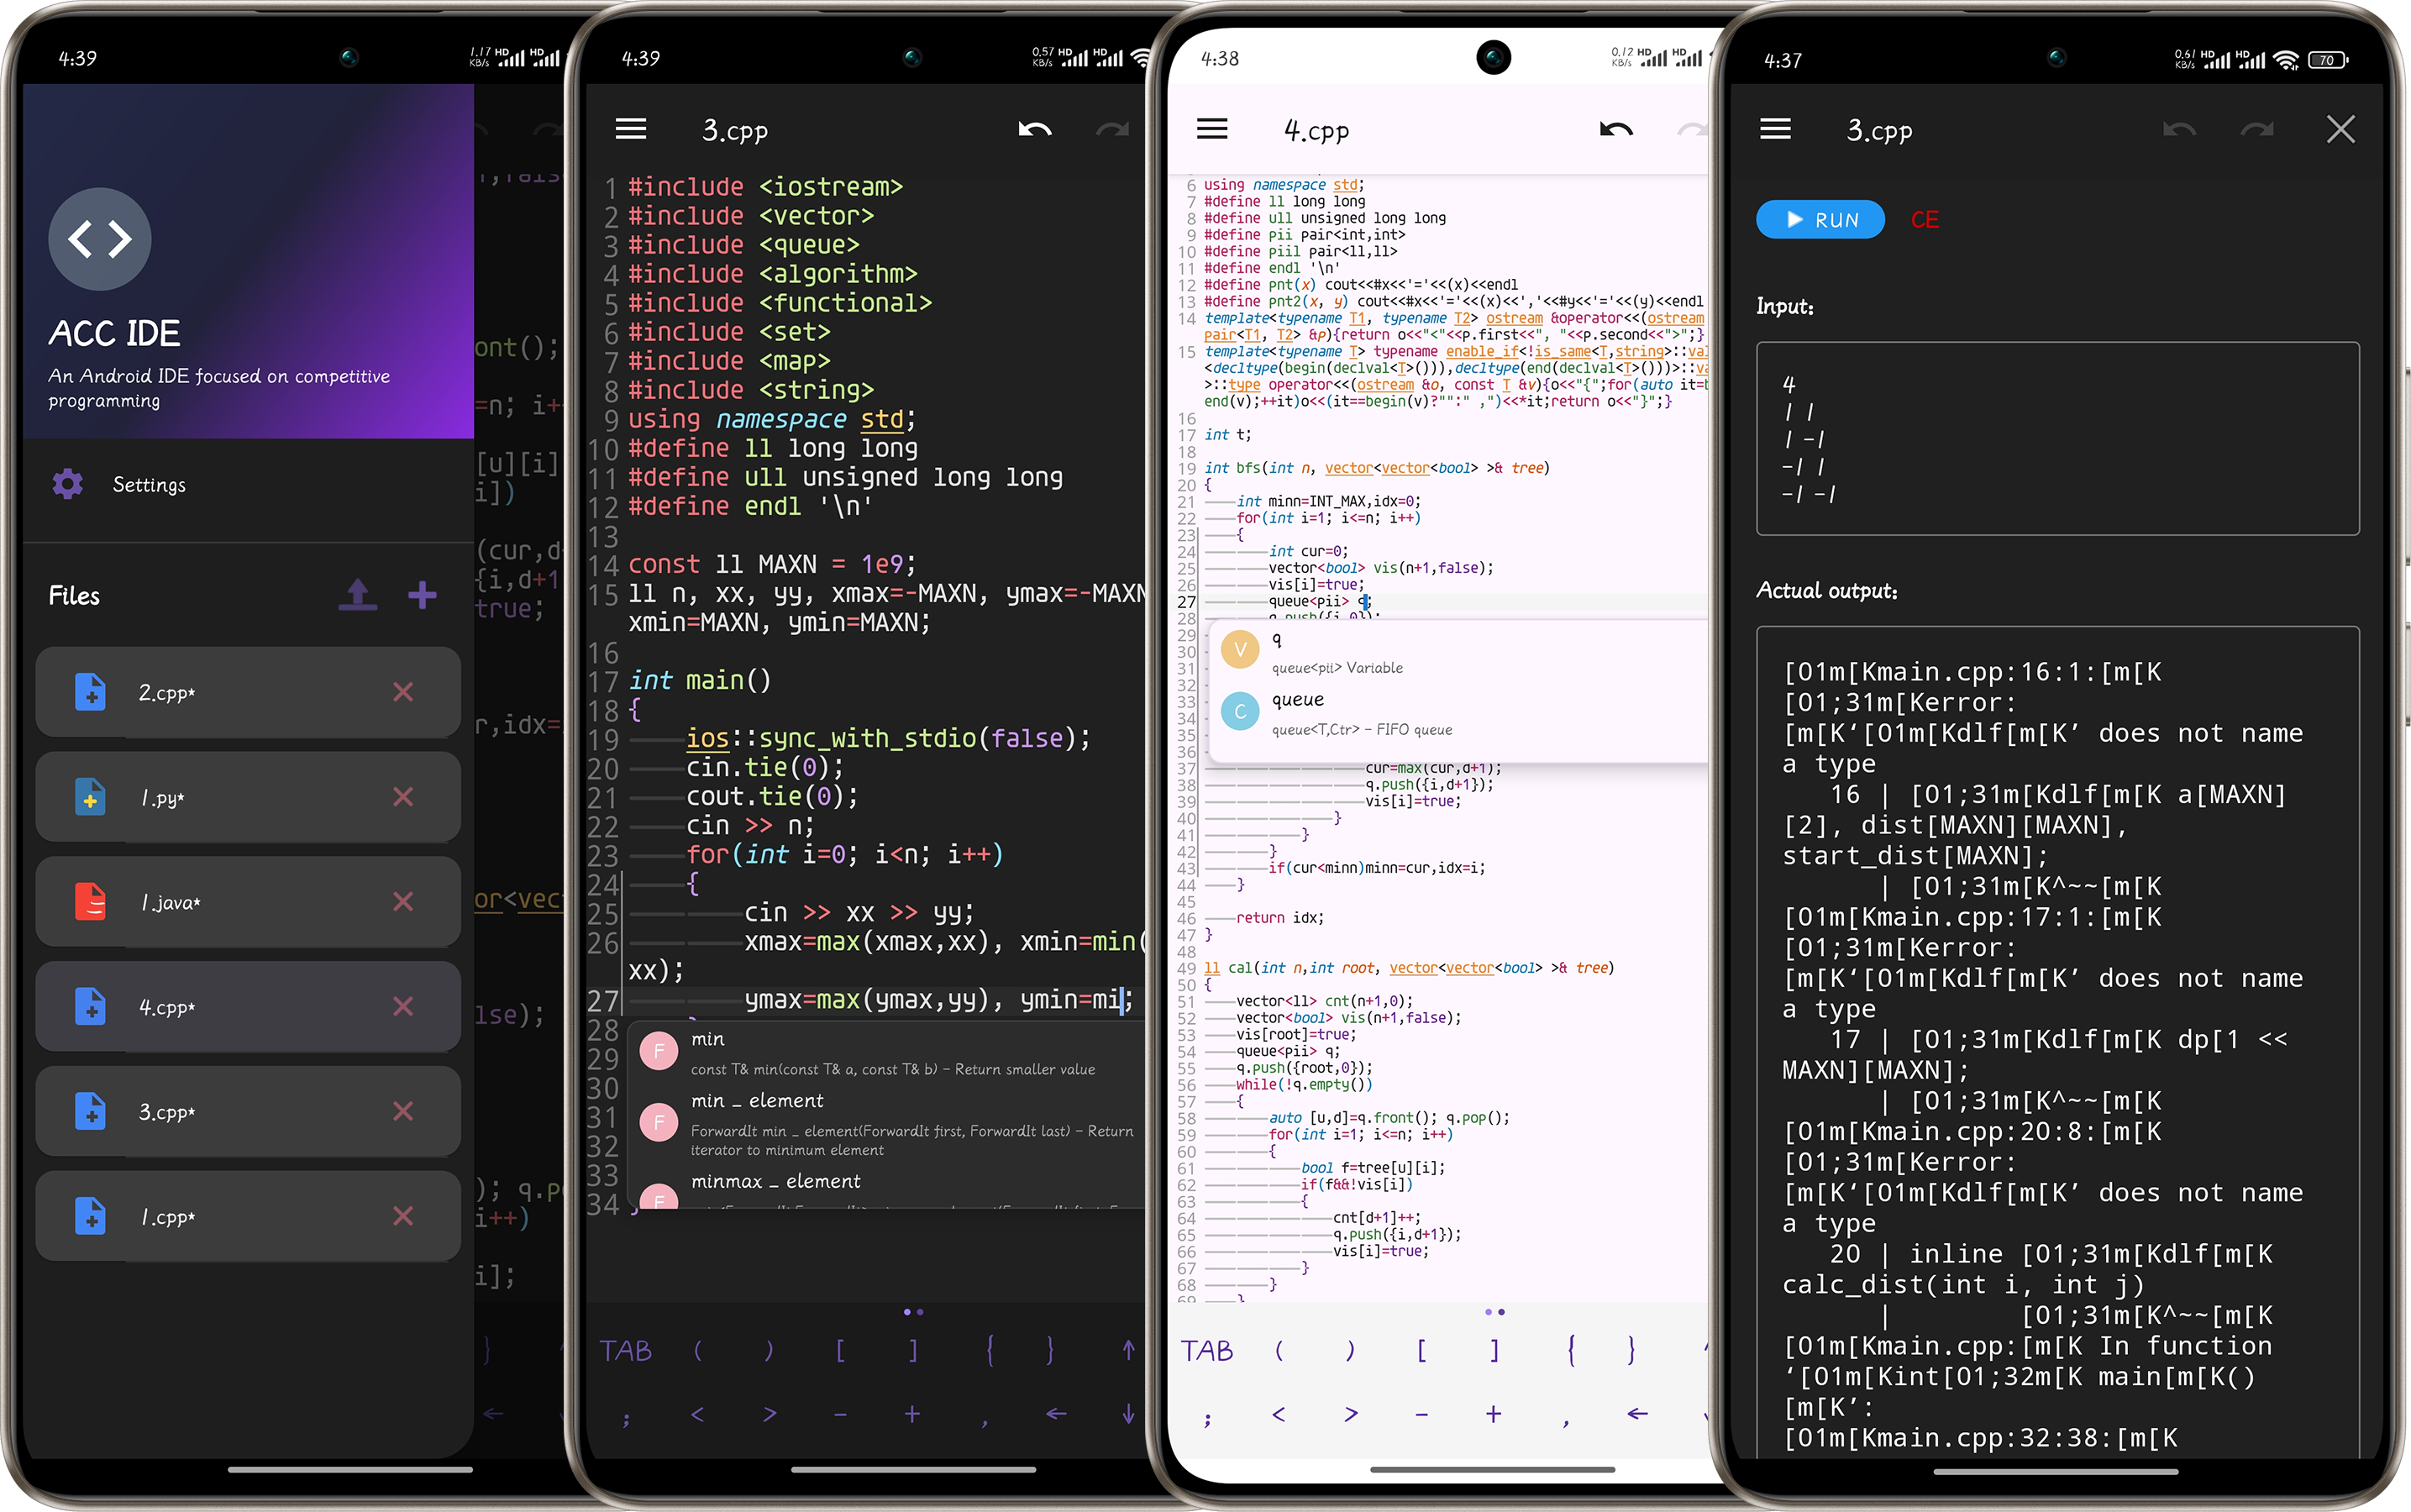
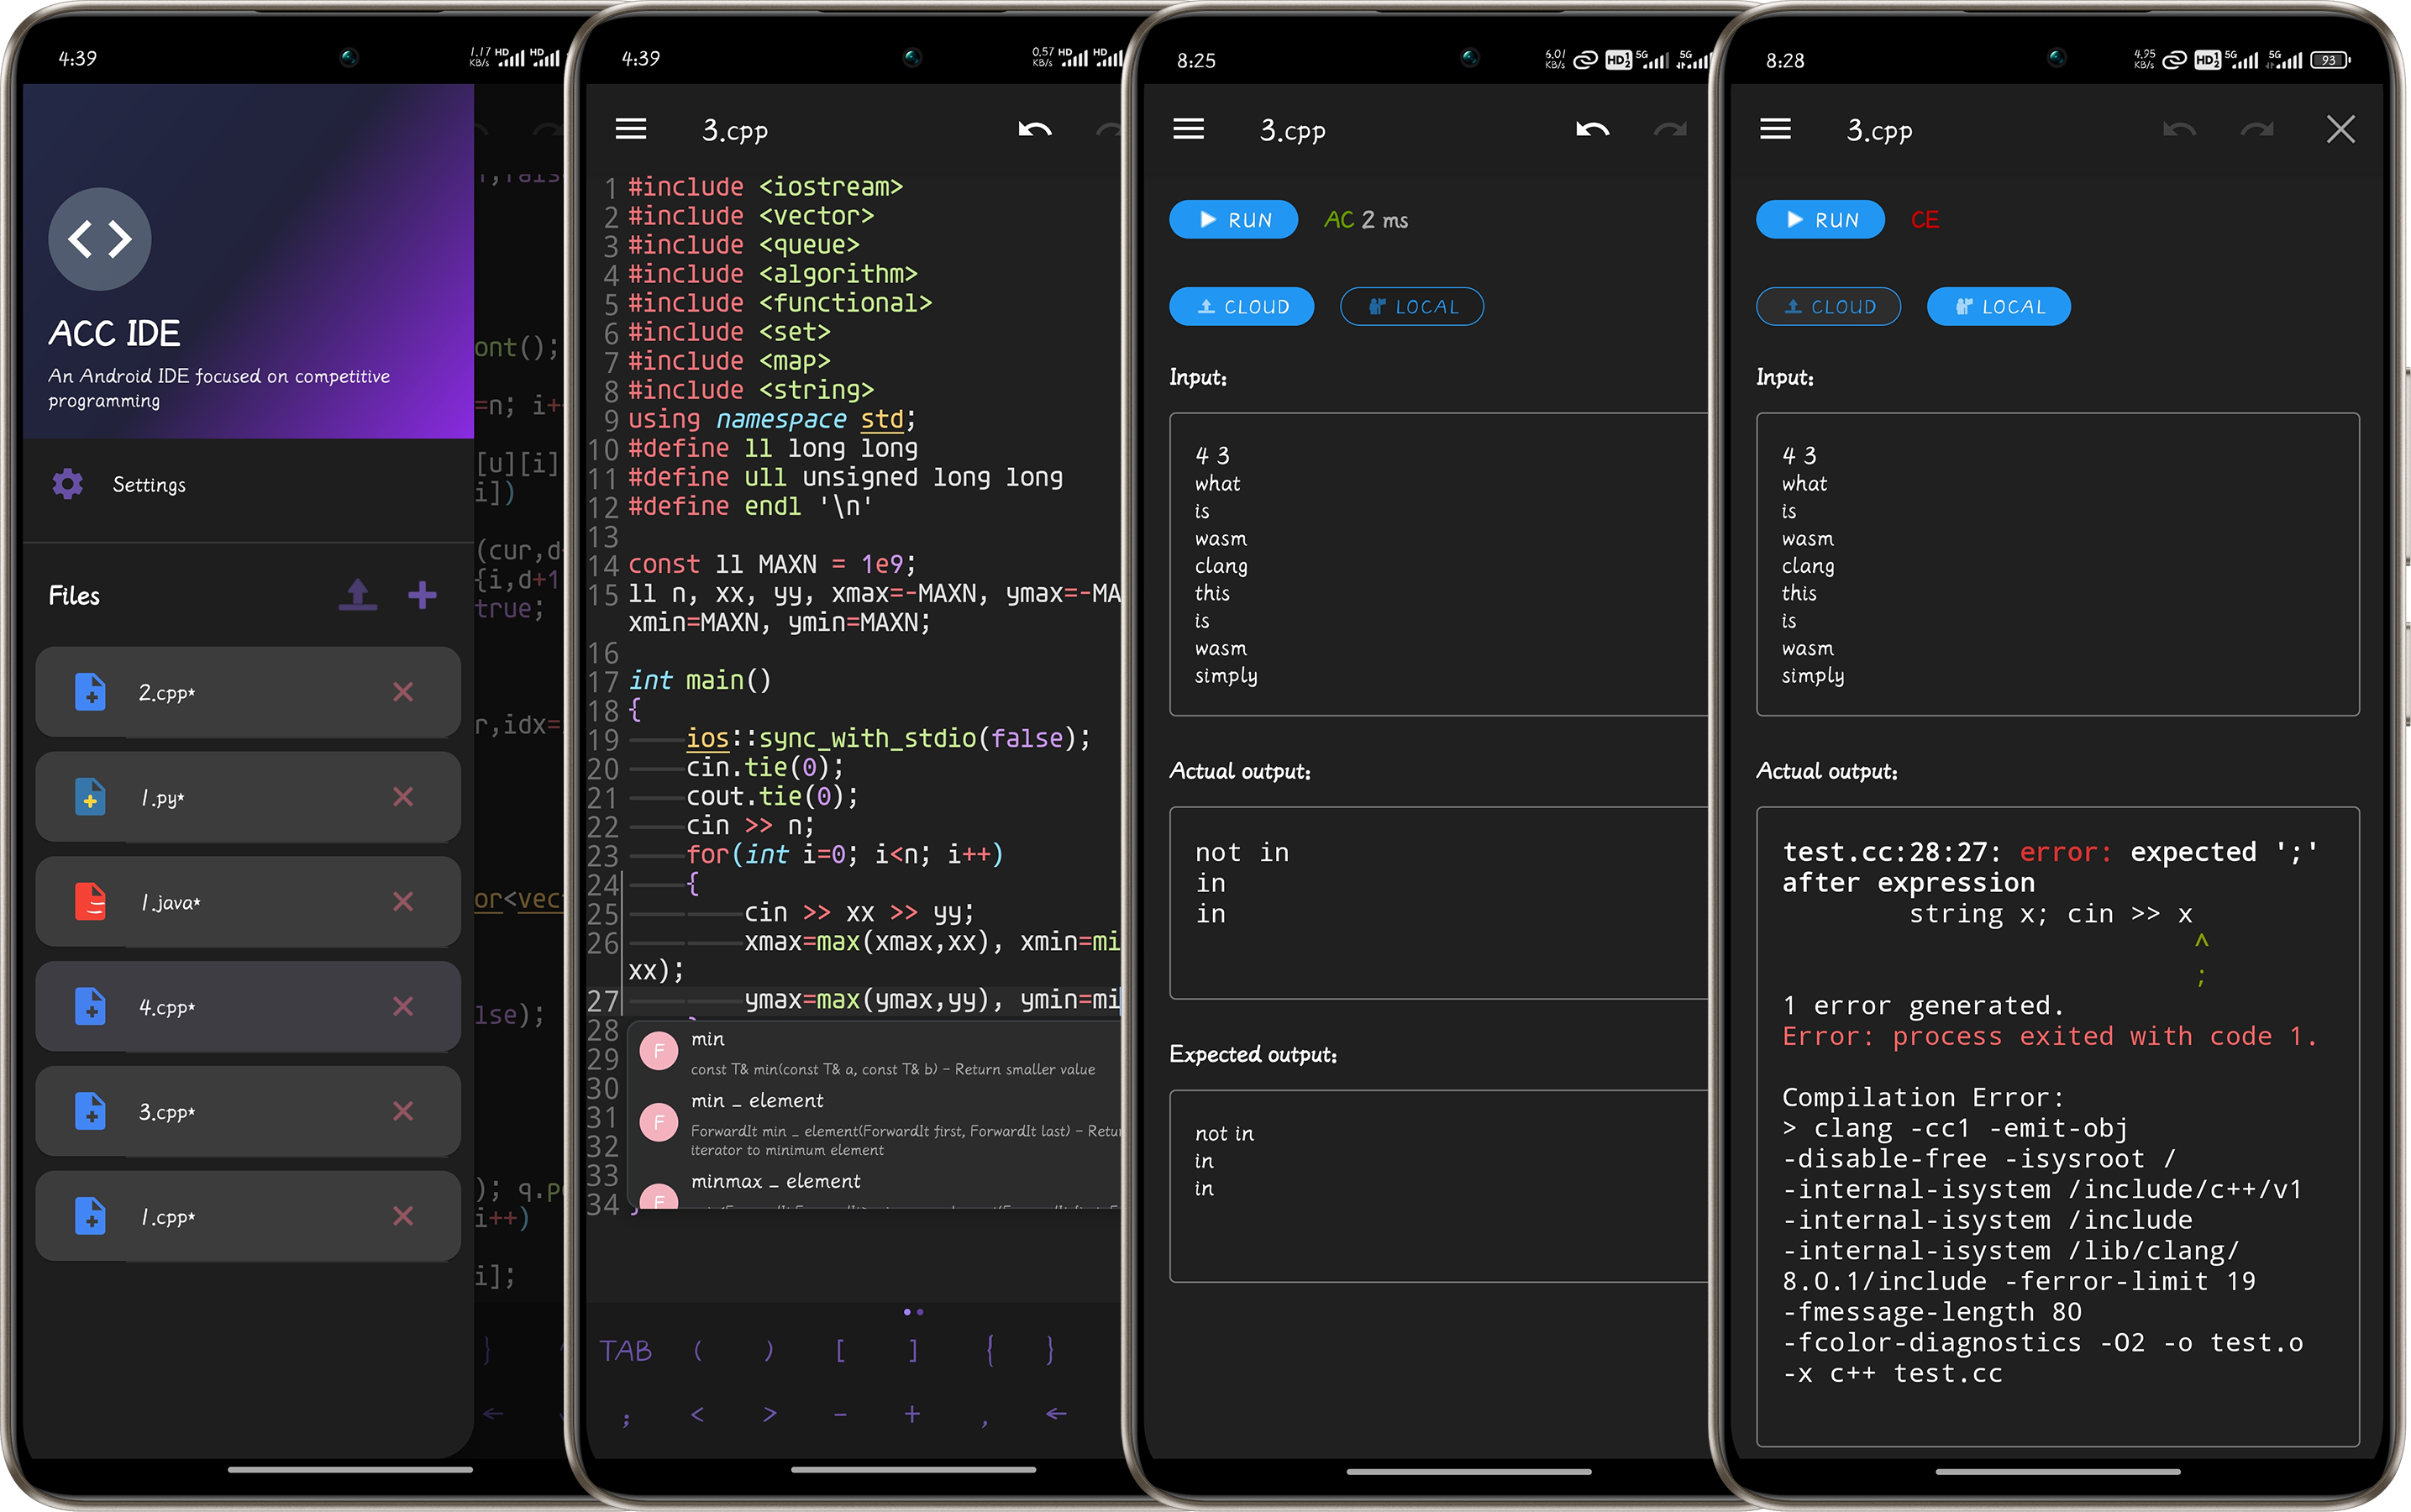
updata: img&readme

Changed region(s): [[0.4652, 0.0, 0.9613, 1.0], [0.8993, 0.0311, 0.9613, 0.0622], [0.7132, 0.9956, 0.7443, 1.0]]

diff --git a/README_en.md b/README_en.md
@@ -10,48 +10,34 @@ If you're tired of OJ platforms with their mobile-unfriendly IDEs, or if you've 
 
 ACC IDE is a native Android integrated development environment designed specifically for algorithm competitions. It aims to enhance the competitive programming experience on mobile devices by providing a feature-rich environment for writing, testing, and submitting algorithmic solutions 😋.
 
-## Overview
-
-ACC IDE aims to be a comprehensive mobile solution for competitive programmers who need to code and test algorithms on the go. The application provides syntax highlighting, code completion, file management, and other essential features tailored for competitive programming.
 
 ## Project Structure
 
 The project is built with native Android and includes the following main components:
 
 ### Core Structure
+
 ```
 acc_ide/
-├── app/
-│ ├── src/
-│ │ ├── main/
-│ │ │ ├── java/com/acc_ide/
-│ │ │ │ ├── adapter/                          # RecyclerView Adapter
-│ │ │ │ │ └── FileListAdapter.kt              # File list adapter
-│ │ │ │ ├── completion/                       # Code completion system
-│ │ │ │ │ ├── core/                           # Completion core components
-│ │ │ │ │ ├── framework/                      # Completion framework
-│ │ │ │ │ ├── languages/                      # Language-specific completion support
-│ │ │ │ │ ├── providers/                      # Completion providers
-│ │ │ │ │ ├── services/                       # Completion services
-│ │ │ │ ├── data/
-│ │ │ │ │ ├── model/                          # Data models
-│ │ │ │ │ └── repository/                     # Data repository
-│ │ │ │ ├── dialog/                           # Dialog components
-│ │ │ │ ├── ui/                               # UI components
-│ │ │ │ ├── util/                             # Utility classes
-│ │ │ │ └── view/                             # Custom views
-│ │ │ ├── cpp/
-│ │ │ │ ├── core/                             # Tree-sitter core
-│ │ │ │ ├── languages/                        # Language processors
-│ │ │ │ └── TreeSitterJNI.cpp                 # JNI interface
-│ │ │ ├── res/                                
-│ │ │ ├── assets/                             
-│ │ │ ├── jniLibs/                            
-│ │ │ └── AndroidManifest.xml                 
-│ ├── build.gradle                            
-├── gradle/                                   
-├── build.gradle.kts                          
-└── settings.gradle.kts                       
+├── app/                          # Main application module
+│   ├── src/main/
+│   │   ├── java/com/acc_ide/    # Kotlin source code
+│   │   │   ├── completion/      # Code completion system
+│   │   │   ├── ui/              # UI components
+│   │   │   ├── util/            # Utility classes
+│   │   │   └── view/            # Custom views
+│   │   ├── cpp/                 # Tree-sitter JNI
+│   │   ├── res/                 # Resources
+│   │   └── assets/              # Static assets
+│   └── build.gradle
+├── executor-library/             # Code executor library
+│   ├── src/main/
+│   │   ├── java/                # Executor implementation
+│   │   └── assets/wasm/         # WASM resources
+│   └── build.gradle
+├── treesitter-build/             # Tree-sitter build scripts
+├── wasmClang-build/              # WASM Clang build scripts
+└── gradle/                       # Gradle configuration
 ```
 
 ## Implemented Features
@@ -75,18 +61,18 @@ acc_ide/
 - **Editor Preferences**: Customize editor behavior through settings, such as cursor width and symbol panel display
 
 ### Input/Output Panel
-- **Input/Output Panel**: For manual input and output viewing
-- **GitHub Action Backend**: Free runtime environment through GitHub Actions [repository link](https://github.com/META-Xiao/accide-code-execution), supporting compilation and execution of C/C++, Java, and Python
-- **Compilation Progress Indicator**: Shows compilation progress and results upon completion
-- **Memory and Time Limits**: Restricts code execution time (2s) and memory (512MB) through the GitHub Action backend
-- **Execution Status Display**: Shows code execution status and runtime, including AC, WA, TLE, MLE, RE, CE, RS (Run Successful, indicated when user hasn't input an expected output)
+- **Input/Output Panel**: Manual input and output viewing
+- **GitHub Action Backend**: Free runtime via GitHub Actions [repository](https://github.com/META-Xiao/accide-code-execution), supports C/C++, Java, and Python
+- **WASM-based Local Environment**: WebAssembly-based compilation environment, though C++ may have some issues as there's no pre-compiled WASM
+- **Memory and Time Limits**: Execution time (2s) and memory (512MB) restrictions via backend
+- **Execution Status Display**: Shows code execution status and runtime (AC, WA, TLE, MLE, RE, CE, RS - Run Successful when no expected output provided), with highlighted compilation errors
 
 ## Planned Features
 
-### Improvements to Existing Features
-- **Enhanced GitHub Action**: Better support for Java and Python compilation and execution
-- **Android Error Lens**: Highlight compilation errors directly in the editor
-- **LSP**: Plan to use `tree-sitter+LSP` solution for precise syntax highlighting and semantic level code completion
+### Feature Improvements
+- **Android Error Lens**: Highlight compilation errors in the editor
+- **LSP**: Plan to adopt `tree-sitter+LSP` for precise syntax highlighting and semantic-level code completion
+- **Maintain/Optimize wasm-clang**
 
 ### competitive-companion Integration
 - Android version of competitive-companion
@@ -96,11 +82,6 @@ acc_ide/
   - AtCoder
   - Luogu
   - Niuke
-
-### Compiler Native Integration
-- Local compilation and execution
-- Support different compiler versions
-- Highlight compilation errors in the editor
 
 ## Installation
 
@@ -113,6 +94,8 @@ If you find any problems or feature requests during use, you are welcome to subm
 
 ## Acknowledgements
 
-- [Sora Editor](https://github.com/Rosemoe/sora-editor) for the code editing capabilities
+- [Sora Editor](https://github.com/Rosemoe/sora-editor) for code editing capabilities
 - [VSCode TextMate](https://github.com/microsoft/vscode-textmate) for syntax highlighting support
-- [Tree-sitter](https://github.com/tree-sitter/tree-sitter) provides build support for `CST`
+- [Tree-sitter](https://github.com/tree-sitter/tree-sitter) for `CST` build support
+- [wasm-clang](https://github.com/binji/wasm-clang) for `wasm-clang` demo
+- [pyodide](https://github.com/pyodide/pyodide) for out-of-the-box `wasm-python`

diff --git a/README.md b/README.md
@@ -10,10 +10,6 @@
 
 ACC IDE 是一个专为算法竞赛设计的，基于 Android 的原生集成开发环境。它旨在增强移动设备上的竞赛编程体验，为编写、测试和提交算法解决方案提供功能丰富的环境😋。
 
-## 概述
-
-ACC IDE 致力于为需要随时随地编码和测试算法的竞赛程序员提供全面的移动解决方案。该应用程序提供语法高亮、代码补全、文件管理等基本功能，专为算法竞赛量身定制。
-
 ## 项目结构
 
 该项目由安卓原生构建，包含以下主要部分：
@@ -22,37 +18,25 @@ ACC IDE 致力于为需要随时随地编码和测试算法的竞赛程序员提
 
 ```
 acc_ide/
-├── app/
-│   ├── src/
-│   │   ├── main/
-│   │   │   ├── java/com/acc_ide/
-│   │   │   │   ├── adapter/                          # RecyclerView 适配器
-│   │   │   │   │   └── FileListAdapter.kt            # 文件列表适配器
-│   │   │   │   ├── completion/                       # 代码补全系统
-│   │   │   │   │   ├── core/                         # 补全核心组件
-│   │   │   │   │   ├── framework/                    # 补全框架
-│   │   │   │   │   ├── languages/                    # 语言特定补全支持
-│   │   │   │   │   ├── providers/                    # 补全提供器
-│   │   │   │   │   ├── services/                     # 补全服务
-│   │   │   │   ├── data/                             
-│   │   │   │   │   ├── model/                        # 数据模型
-│   │   │   │   │   └── repository/                   # 数据仓库
-│   │   │   │   ├── dialog/                           # 对话框组件
-│   │   │   │   ├── ui/                               # UI 组件              
-│   │   │   │   ├── util/                             # 工具类
-│   │   │   │   └── view/                             # 自定义视图
-│   │   │   ├── cpp/                                  
-│   │   │   │   ├── core/                             # Tree-sitter 核心
-│   │   │   │   ├── languages/                        # 语言处理器
-│   │   │   │   └── TreeSitterJNI.cpp                 # JNI 接口
-│   │   │   ├── res/                                  
-│   │   │   ├── assets/                               
-│   │   │   ├── jniLibs/                              
-│   │   │   └── AndroidManifest.xml
-│   ├── build.gradle                                  
-├── gradle/                                           
-├── build.gradle.kts                                  
-└── settings.gradle.kts                               
+├── app/                          # 主应用模块
+│   ├── src/main/
+│   │   ├── java/com/acc_ide/    # Kotlin 源代码
+│   │   │   ├── completion/      # 代码补全系统
+│   │   │   ├── ui/              # UI 组件
+│   │   │   ├── util/            # 工具类
+│   │   │   └── view/            # 自定义视图
+│   │   ├── cpp/                 # Tree-sitter JNI
+│   │   ├── res/                 # 资源文件
+│   │   └── assets/              # 静态资源
+│   └── build.gradle
+├── executor-library/             # 代码执行器库
+│   ├── src/main/
+│   │   ├── java/                # 执行器实现
+│   │   └── assets/wasm/         # WASM 资源
+│   └── build.gradle
+├── treesitter-build/             # Tree-sitter 构建脚本
+├── wasmClang-build/              # WASM Clang 构建脚本
+└── gradle/                       # Gradle 配置
 ```
 
 
@@ -79,18 +63,18 @@ acc_ide/
 ### 输入/输出面板
 - **输入/输出面板**：用于手动输入和查看输出
 - **Github Action的运行后端**： 通过 Github Action 提供的免费运行后端[仓库地址](https://github.com/META-Xiao/accide-code-execution)，支持 C/C++、Java 和 Python 的在线编译和执行
-- **编译进度指示器**：显示编译进度，并在编译完成后显示结果
-- **限制运行内存和时间**： 通过Github Action的运行后端限制代码运行时间（2s）和内存（512MB）
-- **运行状态显示**： 显示代码运行状态和运行时间，AC、WA、TLE、MLE、RE、CE、RS（Run successful，当用户未输入`答案输出`时运行成功的标志）
+- **基于wasm的本地运行环境**： 基于WebAssembly的编译环境，但由于cpp没有预编译好的wsm，所以运行cpp时可能会有些问题
+- **限制运行内存和时间**： 运行后端限制代码运行时间（2s）和内存（512MB）
+- **运行状态显示**： 显示代码运行状态和运行时间，AC、WA、TLE、MLE、RE、CE、RS（Run successful，当用户未输入`答案输出`时运行成功的标志），编译错误等信息也会高亮显示
 
 ## 计划实现功能
 
 ### 完善部分功能
-- **完善Github Action**： 完善对 Java 和 Python 的编译运行支持
 - **安卓版本的Error Lens**： 在编辑器中高亮显示编译错误
 - **LSP**: 计划采用`tree-sitter+LSP`的方案进行精确语法高亮和语义级代码补全  
+- **维护/优化wasm-clang**
 
-### competitive-companion 集成
+### 添加 competitive-companion 
 - Android 版本的 competitive-companion
 - 直接从问题陈述导入测试用例
 - 支持主要竞赛编程平台：
@@ -98,12 +82,6 @@ acc_ide/
   - AtCoder
   - 洛谷
   - 牛客
-
-### 编译器本地集成
-- 本地编译和执行
-- 支持不同编译器版本
-- 在编辑器中高亮显示编译错误
-
 
 ## 安装
 
@@ -120,3 +98,5 @@ acc_ide/
 - [Sora Editor](https://github.com/Rosemoe/sora-editor) 提供代码编辑功能
 - [VSCode TextMate](https://github.com/microsoft/vscode-textmate) 提供语法高亮支持
 - [Tree-sitter](https://github.com/tree-sitter/tree-sitter) 提供`CST`的构建支持  
+- [wasm-clang](https://github.com/binji/wasm-clang) 提供`wasm-clang`demo
+- [pyodide](https://github.com/pyodide/pyodide) 提供开箱即用的`wasm-python`